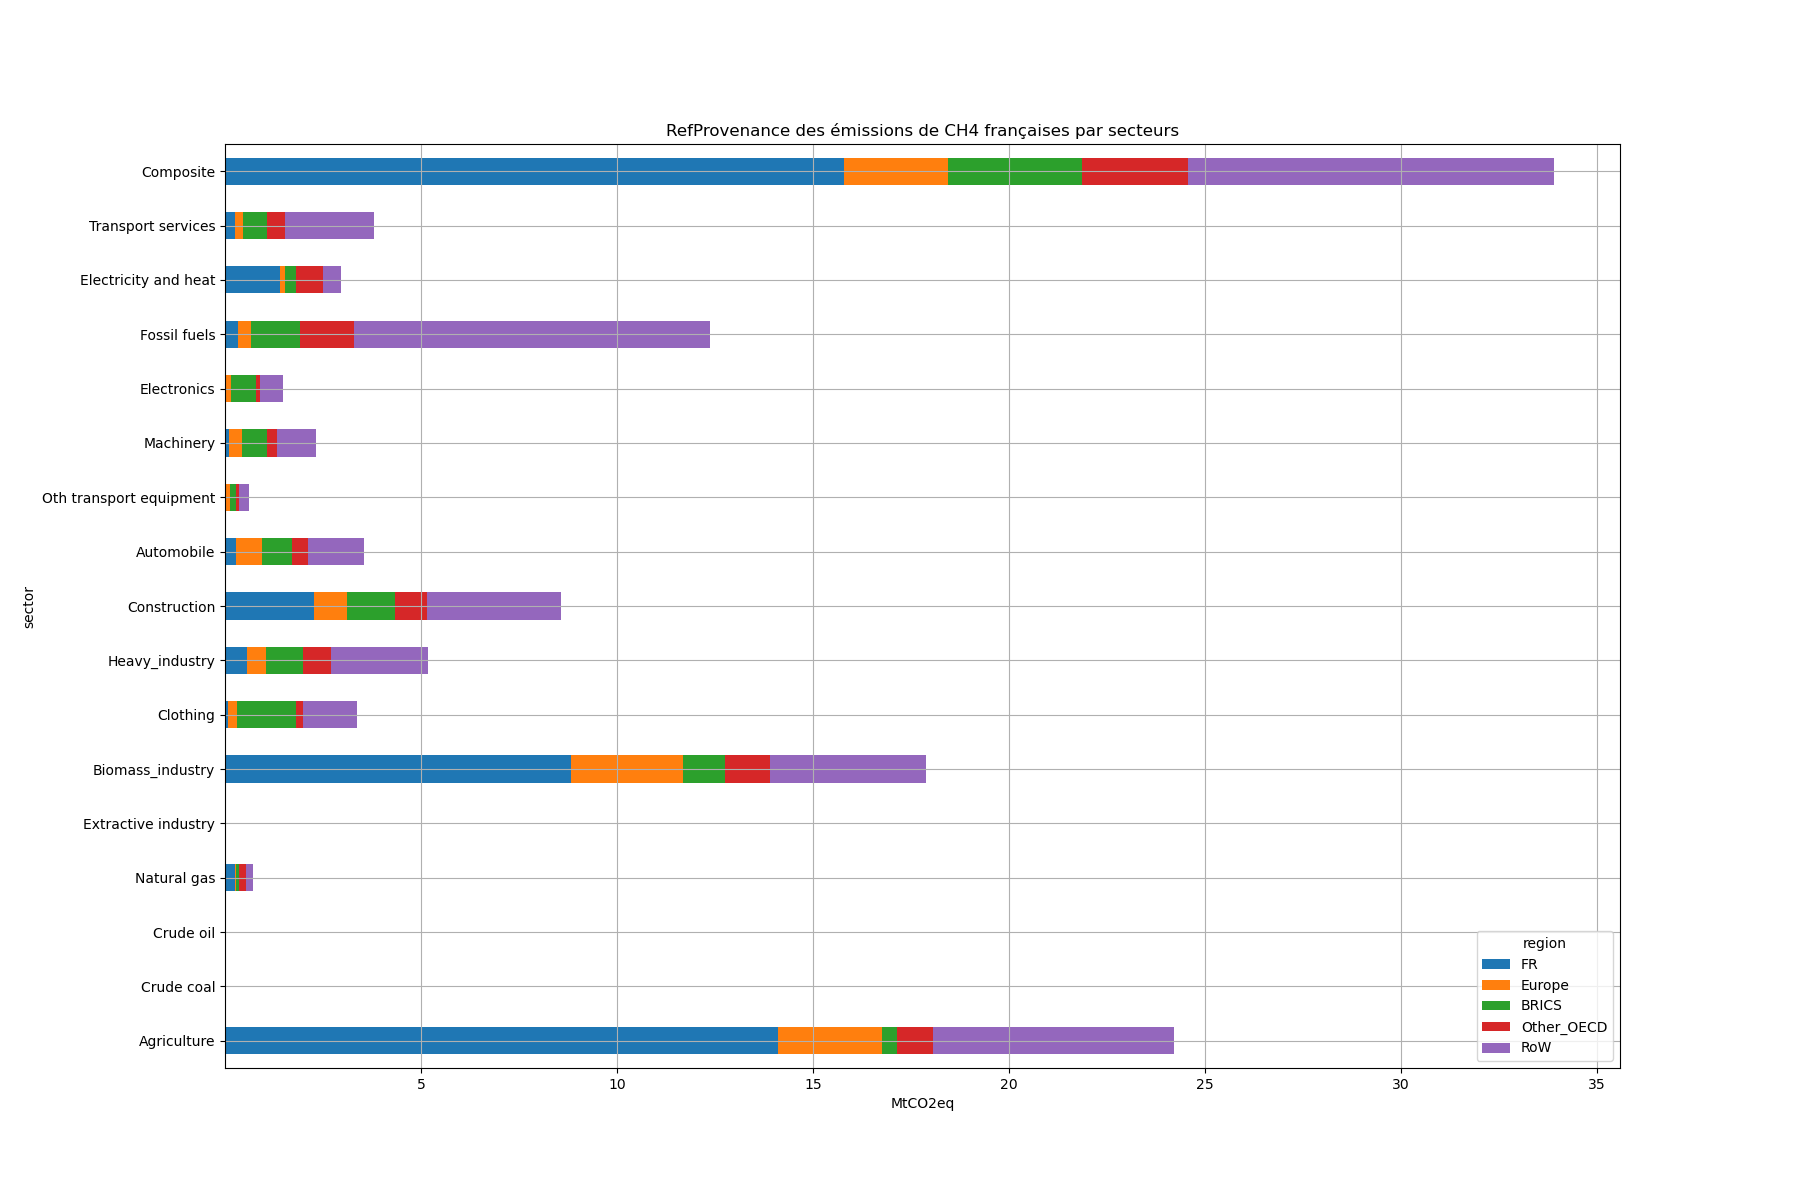
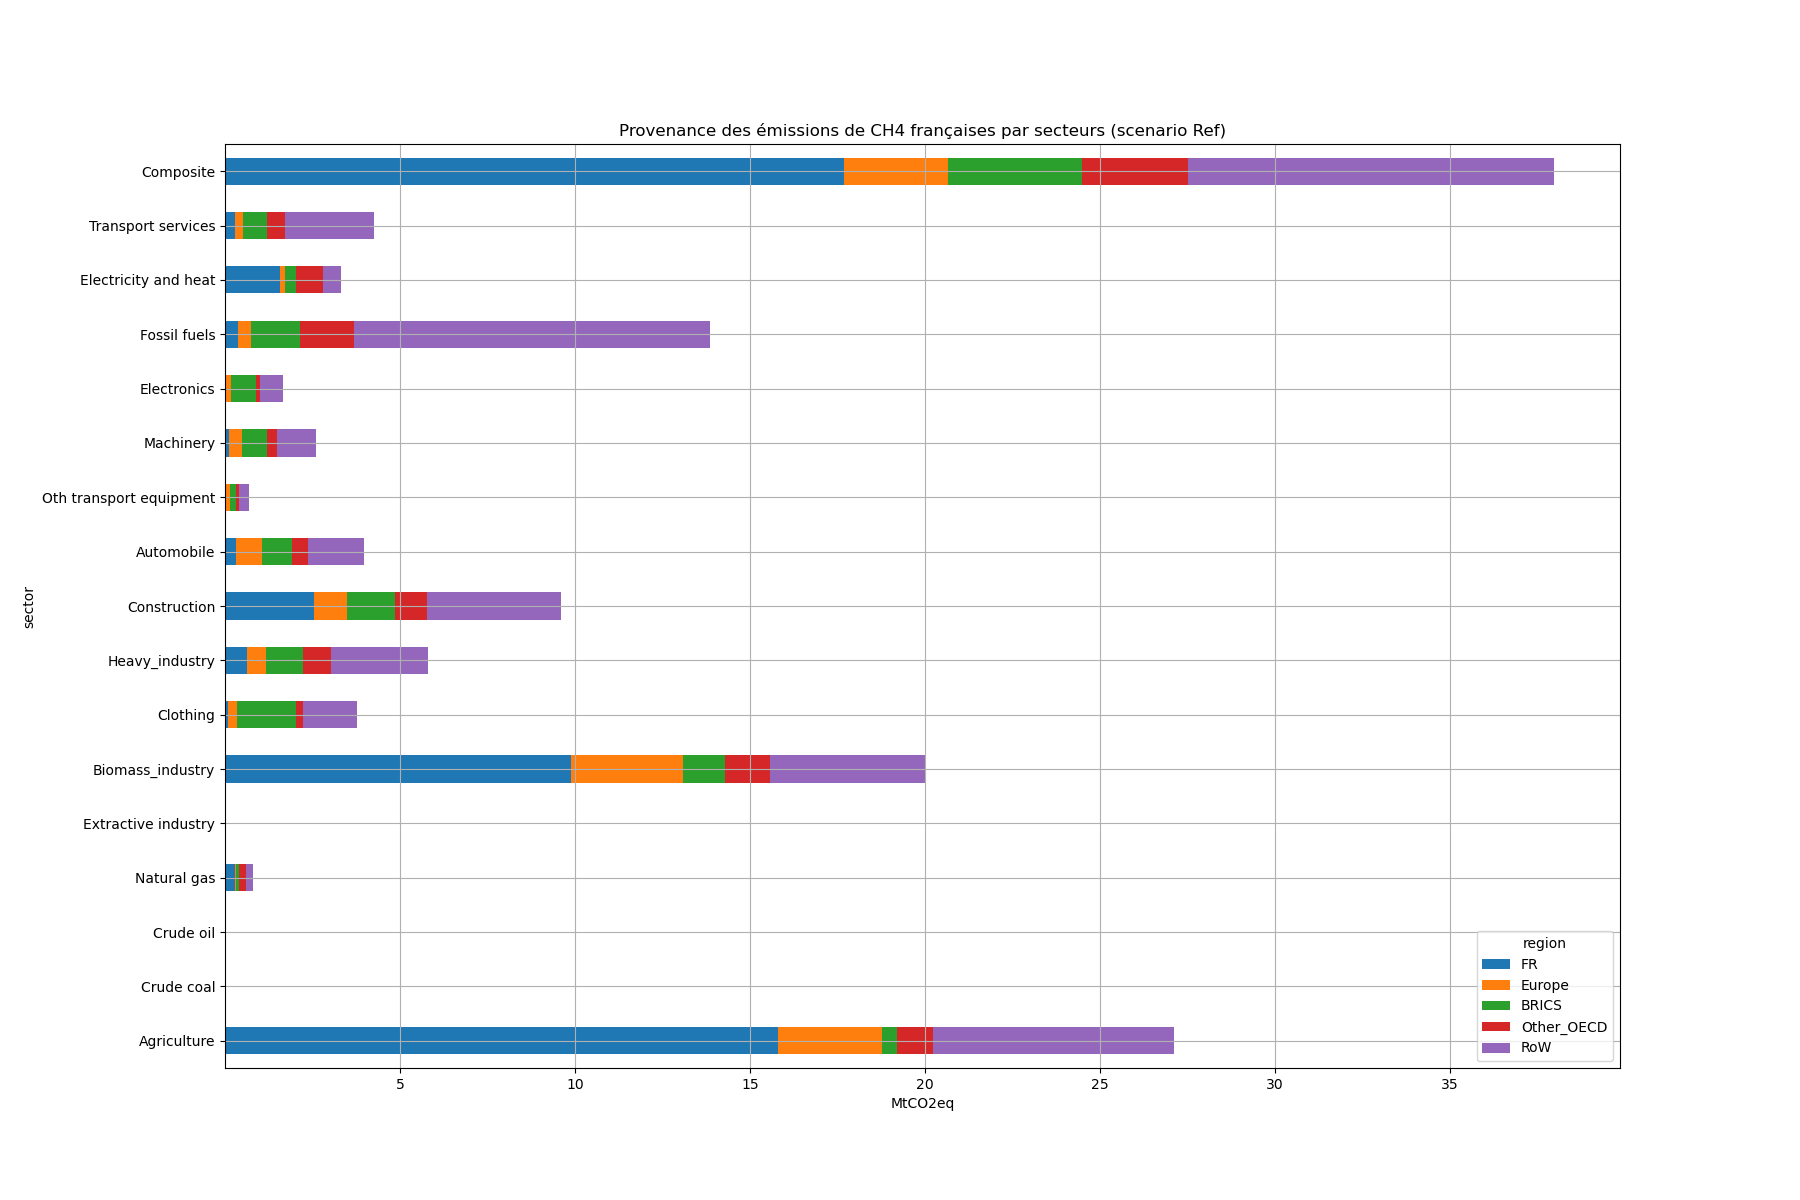
Correction counterfactual

Changed region(s): [[0.3422, 0.0925, 0.6844, 0.1233]]

diff --git a/main.py b/main.py
@@ -133,8 +133,6 @@ reference.ghg_emissions_desag = Tools.recal_extensions_per_region(
 # init counterfactual(s)
 counterfactual = reference.copy()
 counterfactual.remove_extension('ghg_emissions_desag')
-
-
 # read param sets to shock reference system
 ## ToDo
 quantity = 0.5
@@ -142,11 +140,14 @@ sector = 'Clothing'
 
 # build conterfactual(s) using param sets
 ## ToDo
+
 counterfactual.Z = Tools.shock(list(reference.get_sectors()),reference.Z,'BRICS','Europe',sector,quantity)
-
-
+counterfactual.A = None
+counterfactual.x = None
+counterfactual.L = None
 # calculate counterfactual(s) system
 counterfactual.calc_all()
+
 counterfactual.ghg_emissions_desag = Tools.recal_extensions_per_region(
 	counterfactual,
 	'ghg_emissions'
@@ -191,7 +192,7 @@ def visualisation(scenario,scenario_name):
 	'HFC':liste_agg_ghg[4],'PFC':liste_agg_ghg[5]}
 	pour_plot=pd.DataFrame(data=dict_pour_plot,index=scenario.get_regions())
 	pour_plot.transpose().plot.bar(stacked=True)
-	plt.title(scenario_name+"_Empreinte carbone de la France")
+	plt.title("Empreinte carbone de la France (scenario "+scenario_name+")")
 	plt.ylabel("MtCO2eq")
 	plt.savefig("figures/"+scenario_name+"_empreinte_carbone_fr_importation.png")
 	for ghg in ghg_list:
@@ -201,13 +202,13 @@ def visualisation(scenario,scenario_name):
 		ax=df.plot.barh(stacked=True, figsize=(18,12))
 		plt.grid()
 		plt.xlabel("MtCO2eq")
-		plt.title(scenario_name+"Provenance des émissions de "+ghg+" françaises par secteurs")
+		plt.title("Provenance des émissions de "+ghg+" françaises par secteurs (scenario "+scenario_name+")")
 		plt.savefig('figures/'+scenario_name+'_french_'+ghg+'emissions_provenance_sectors')
 	
-		ax=empreinte_df.sum(level=0).T.plot.barh(stacked=True)
+		ax=empreinte_df.sum(level=0).T.plot.barh(stacked=True, figsize=(18,12))
 		plt.grid()
 		plt.xlabel("MtCO2eq")
-		plt.title(scenario_name+"Provenance des émissions totales françaises par secteurs")
+		plt.title("Provenance des émissions totales françaises par secteurs (scenario "+scenario_name+")")
 		plt.savefig('figures/'+scenario_name+'french_total_emissions_provenance_sectors')
 		#plt.show()
 
@@ -217,8 +218,8 @@ def visualisation(scenario,scenario_name):
 
 # reference analysis
 ## ToDo
-#visualisation(reference,"Ref",plot=False)
-#visualisation(counterfactual,"Cont",plot=False)
+#visualisation(reference,"Ref")
+#visualisation(counterfactual,"Cont")
 # whole static comparative analysis
 ## ToDo
 
@@ -230,5 +231,5 @@ def delta_CF(ref,contr):
 	con_dcba = pd.DataFrame(contr.ghg_emissions_desag.D_cba)
 	cf_ref = ref_dcba['FR'].sum(axis=1).sum(level=0)
 	cf_con = con_dcba['FR'].sum(axis=1).sum(level=0)
-	return cf_con/cf_ref - 1
+	return (cf_con/cf_ref - 1)*100
 print(delta_CF(reference,counterfactual))

diff --git a/utils.py b/utils.py
@@ -56,7 +56,7 @@ class Tools:
                     )
                 else:
                     component = component.sum(axis = 0).to_frame(ghg_emission).T
-                    component.loc[ghg_emission] *= mult_to_CO2eq[ghg_emission]*0.000000001
+                    component.loc[ghg_emission] *= mult_to_CO2eq[ghg_emission]*1e-9
                     component.index.name = index_name
 
                 setattr(extension, elt, component)
@@ -126,7 +126,7 @@ class Tools:
         #region1 : region dont on veut diminuer les émissions importées en France
         #region2 : region de report pour alimenter la demande
         #quantity : proportion dont on veut faire baisser les émissions importées pour le secteur de la région concernée.
-        Z_modif=pd.DataFrame(Z)
+        Z_modif=Z.copy()
         variation_table=pd.DataFrame(None,index=sector_list,columns=['FR'])
         for sec in sector_list:
             variation_table.loc[sec]=quantity*Z_modif.loc[(region1,sector),('FR',sec)]
